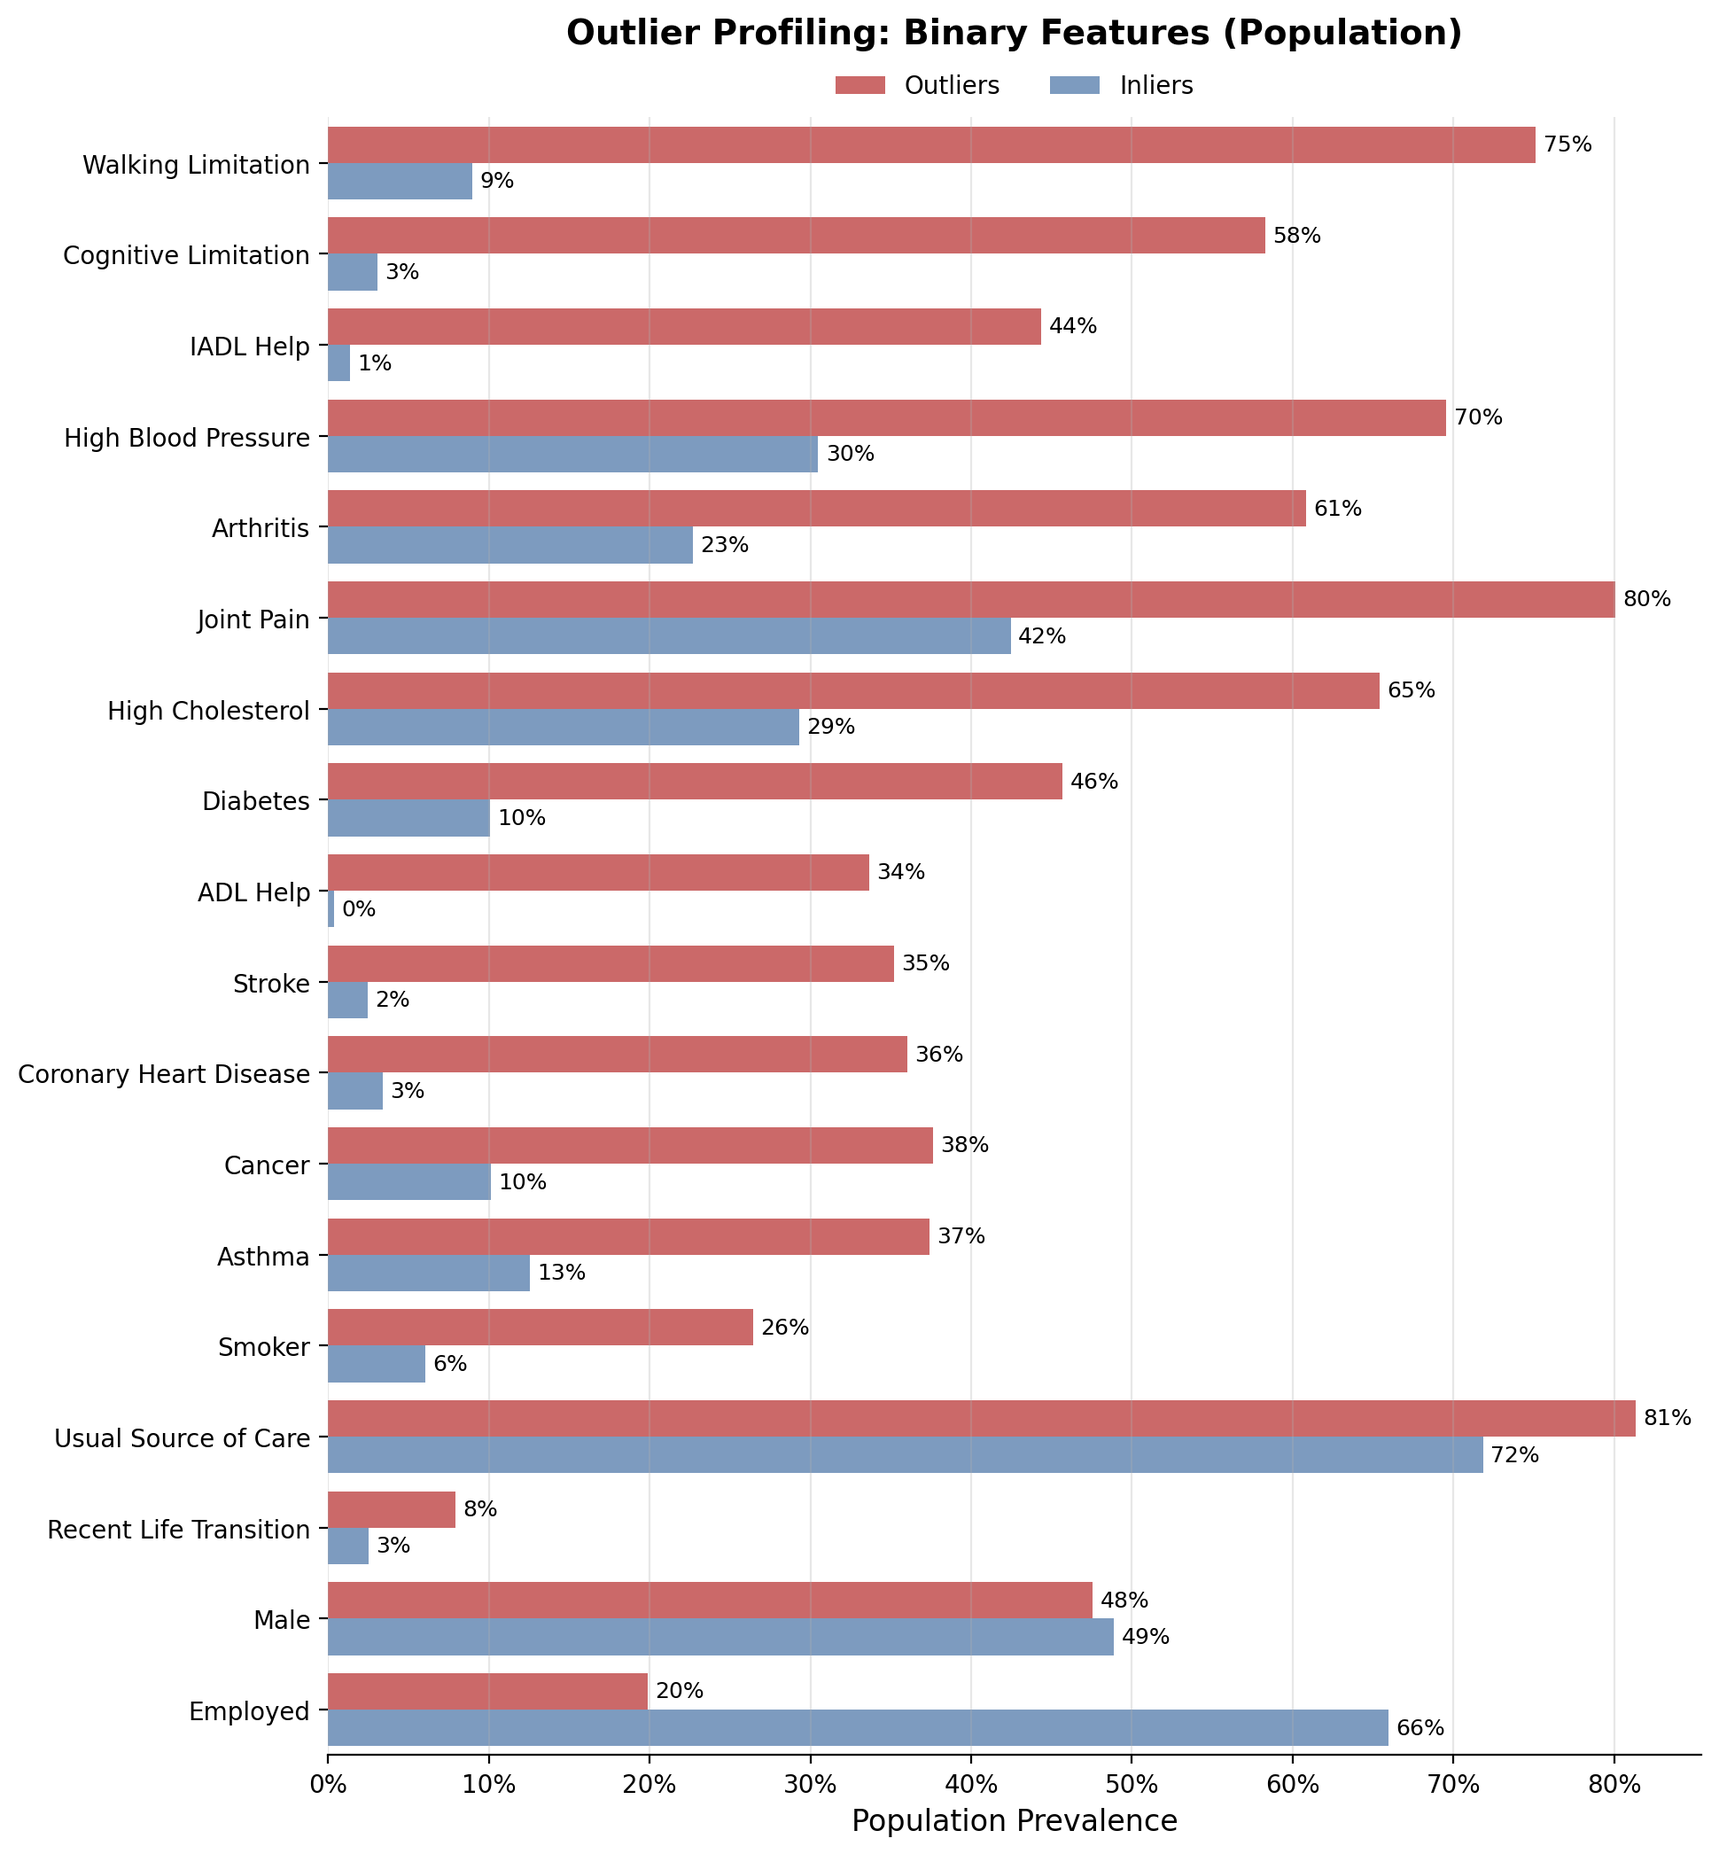
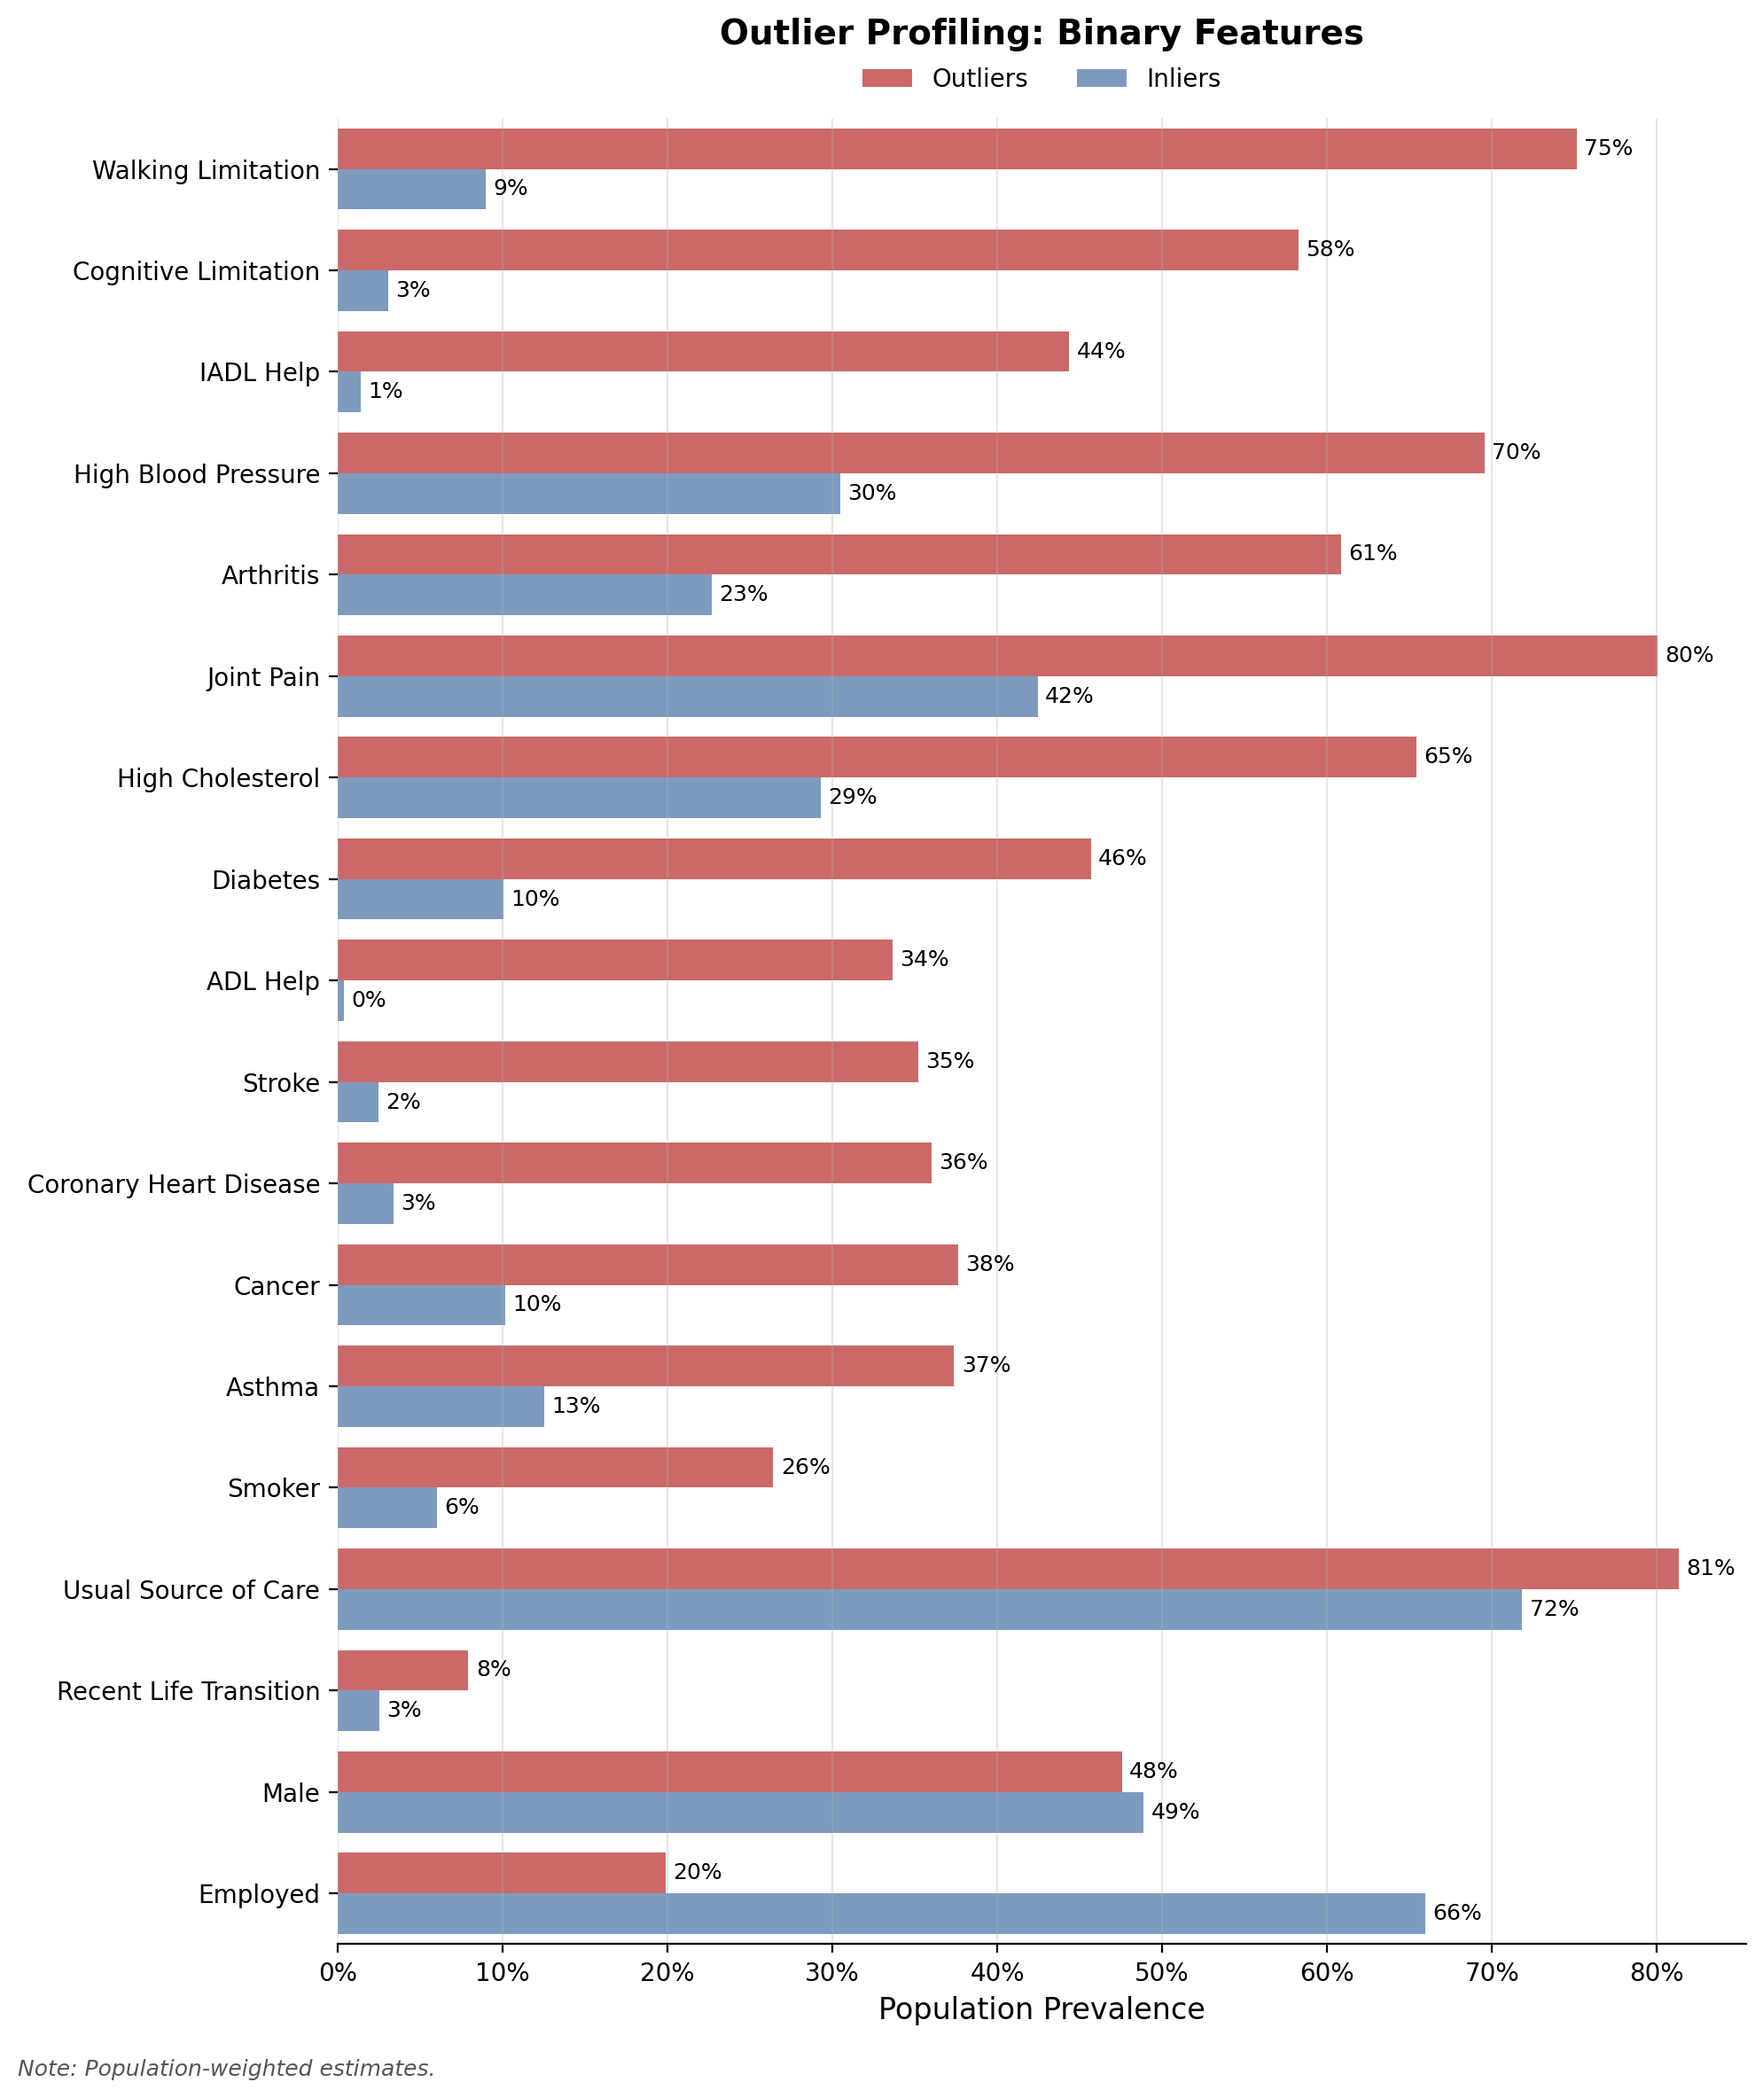
style(data): add footbote for population-weighted estimates in all outlier profiling plots

Changed region(s): [[0.0, 0.0, 0.9897, 0.9943], [0.9278, 0.9321, 0.9588, 0.9632], [0.0619, 0.9632, 0.0928, 0.9943]]

diff --git a/notebooks/medical_cost_prediction.py b/notebooks/medical_cost_prediction.py
@@ -585,6 +585,12 @@ plt.gca().xaxis.set_major_formatter(mtick.StrMethodFormatter("${x:,.0f}"))  # fo
 plt.gca().yaxis.set_major_formatter(mtick.PercentFormatter(1.0))  # format Y as percentages
 plt.legend()
 
+# Adjust layout to make room for the footnote
+plt.tight_layout(rect=[0, 0.02, 1, 1])
+
+# Add footnote
+plt.figtext(0.01, 0.01, "Note: Population-weighted estimates.", ha="left", fontsize=9, style="italic", color="#555555")
+
 plt.show()
 
 # %% [markdown]
@@ -639,6 +645,12 @@ sns.despine()  # removes top & right spines
 plt.gca().xaxis.set_major_formatter(mtick.StrMethodFormatter("${x:,.0f}"))  # format X as dollars with thousand separator
 plt.gca().yaxis.set_major_formatter(mtick.PercentFormatter(1.0))  # format Y as percentages
 plt.legend()
+
+# Adjust layout to make room for the footnote
+plt.tight_layout(rect=[0, 0.02, 1, 1])
+
+# Add footnote
+plt.figtext(0.01, 0.01, "Note: Population-weighted estimates.", ha="left", fontsize=9, style="italic", color="#555555")
 
 plt.show()
 
@@ -764,7 +776,12 @@ plt.xticks(range(0, 101, 10))
 plt.yticks(range(0, 101, 10))
 plt.gca().xaxis.set_major_formatter(mtick.PercentFormatter())
 plt.gca().yaxis.set_major_formatter(mtick.PercentFormatter())
-plt.tight_layout()
+
+# Adjust layout to make room for the footnote
+plt.tight_layout(rect=[0, 0.02, 1, 1])
+
+# Add footnote
+plt.figtext(0.01, 0.01, "Note: Population-weighted estimates.", ha="left", fontsize=9, style="italic", color="#555555")
 
 # Save to file
 # plt.savefig("../figures/eda/lorenz_curve.png", bbox_inches="tight", dpi=200)
@@ -1062,7 +1079,14 @@ def plot_numerical_distributions(df, numerical_features, display_labels=None, we
 
     # Customize histogram matrix
     fig.suptitle(f"{'Population' if weights else 'Sample'} Distributions of Numerical Features", fontsize=16, fontweight="bold", y=1)
-    fig.tight_layout(h_pad=2.0)
+    
+    # Adjust layout to make room for the footnote if weighted
+    if weights:
+        fig.tight_layout(rect=[0, 0.02, 1, 0.98], h_pad=2.0)
+        # Add footnote
+        fig.text(0.01, 0.01, "Note: Population-weighted estimates.", ha="left", fontsize=9, style="italic", color="#555555")
+    else:
+        fig.tight_layout(h_pad=2.0)
 
     # Save to file
     if save_to_file:
@@ -1178,7 +1202,14 @@ def plot_categorical_distributions(df, nominal_features, ordinal_features, displ
     for j in range(i + 1, len(axes_flat)):
         axes_flat[j].axis("off")  # hides unused subplots
     fig.suptitle(f"{'Population' if weights else 'Sample'} Distributions of Categorical Features", fontsize=16, fontweight="bold", y=1)
-    fig.tight_layout(h_pad=2.0, w_pad=4.0)  # Adjusts layout to prevent overlapping subplots
+    
+    # Adjust layout to make room for the footnote if weighted
+    if weights:
+        fig.tight_layout(rect=[0, 0.02, 1, 0.98], h_pad=2.0, w_pad=4.0)
+        # Add footnote
+        fig.text(0.01, 0.01, "Note: Population-weighted estimates.", ha="left", fontsize=9, style="italic", color="#555555")
+    else:
+        fig.tight_layout(h_pad=2.0, w_pad=4.0)
     
     # Save to file
     if save_to_file:
@@ -1275,7 +1306,14 @@ def plot_binary_distributions(df, binary_features, display_labels=None, categori
 
     # Customize bar plot matrix
     fig.suptitle(f"{'Population' if weights else 'Sample'} Distributions of Binary Features", fontsize=16, fontweight="bold", y=1)
-    fig.tight_layout(h_pad=3.0, w_pad=8.0)  # Adjusts layout to prevent overlapping subplots
+    
+    # Adjust layout to make room for the footnote if weighted
+    if weights:
+        fig.tight_layout(rect=[0, 0.02, 1, 0.98], h_pad=3.0, w_pad=8.0)
+        # Add footnote
+        fig.text(0.01, 0.01, "Note: Population-weighted estimates.", ha="left", fontsize=9, style="italic", color="#555555")
+    else:
+        fig.tight_layout(h_pad=3.0, w_pad=8.0)
     
     # Save to file
     if save_to_file:
@@ -2045,7 +2083,13 @@ for j in range(i + 1, len(axes_flat)):
 
 # Customize KDE plot matrix
 fig.suptitle("Outlier Profiling: Numerical Features and Target", fontsize=14, fontweight="bold", y=0.99)
-fig.tight_layout(h_pad=1.5, w_pad=2.0)
+
+# Adjust layout to make room for the footnote
+fig.tight_layout(rect=[0, 0.02, 1, 1], h_pad=1.5, w_pad=2.0)
+
+# Add footnote
+fig.text(0.01, 0.01, "Note: Population-weighted estimates.", ha="left", fontsize=9, style="italic", color="#555555")
+
 plt.show()
 
 # %%
@@ -2072,12 +2116,20 @@ grid = sns.pairplot(
 # Remove legend title and position it at the top center
 sns.move_legend(
     grid, "lower center",
-    bbox_to_anchor=(0.5, 0.99), 
+    bbox_to_anchor=(0.5, 0.97), 
     ncol=2, 
     title=None 
 )
 
-grid.fig.suptitle("Outlier Profiling: Top Numerical Drivers", fontsize=14, fontweight="bold", y=1.05)
+# Add title
+grid.fig.suptitle("Outlier Profiling: Top Numerical Drivers", fontsize=14, fontweight="bold", y=1.03)
+
+# Adjust layout to make room for the footnote
+grid.fig.tight_layout(rect=[0, 0.03, 1, 1])
+
+# Add footnote
+grid.fig.text(0.01, 0.01, "Note: Population-weighted estimates.", ha="left", fontsize=9, style="italic", color="#555555")
+
 plt.show() 
 
 
@@ -2156,7 +2208,7 @@ for g in groups:
                  fontsize=9, fontweight="bold", color=g["color"])
 
 # Customize
-plt.title("Outlier Profiling: Out-of-Pocket Costs Lorenz Curves", fontsize=14, fontweight="bold", pad=20)
+plt.title("Outlier Profiling: Lorenz Curves for Out-of-Pocket Costs", fontsize=14, fontweight="bold", pad=15)
 plt.xlabel("Cumulative % of Population (Sorted from Lowest to Highest Cost)", fontsize=11)
 plt.ylabel("Cumulative % of Total Costs", fontsize=11)
 plt.legend(loc="upper left", fontsize=10)
@@ -2165,7 +2217,13 @@ plt.xticks(range(0, 101, 10))
 plt.yticks(range(0, 101, 10))
 plt.gca().xaxis.set_major_formatter(mtick.PercentFormatter())
 plt.gca().yaxis.set_major_formatter(mtick.PercentFormatter())
-plt.tight_layout()
+
+# Adjust layout to make room for the footnote
+plt.tight_layout(rect=[0, 0.02, 1, 1])
+
+# Add footnote
+plt.figtext(0.01, 0.01, "Note: Population-weighted estimates.", ha="left", fontsize=9, style="italic", color="#555555")
+
 plt.show()
 
 # %%
@@ -2251,13 +2309,20 @@ for container in plt.gca().containers:
     plt.gca().bar_label(container, fmt="{:.0%}", padding=3, fontsize=9)
 
 # Customize
-plt.title("Outlier Profiling: Binary Features (Population)", fontsize=14, fontweight="bold", pad=30)
+plt.title("Outlier Profiling: Binary Features", fontsize=14, fontweight="bold", pad=30)
 plt.xlabel("Population Prevalence", fontsize=12)
 plt.ylabel("")
 plt.gca().xaxis.set_major_formatter(mtick.PercentFormatter(1.0, decimals=0))
 plt.grid(True, axis="x", alpha=0.3)
 plt.legend(loc="upper center", ncol=2, bbox_to_anchor=(0.5, 1.04), frameon=False)
 sns.despine(left=True)
+
+# Adjust layout to make room for the footnote
+plt.tight_layout(rect=[0, 0.02, 1, 0.99])
+
+# Add footnote
+plt.figtext(0.01, 0.01, "Note: Population-weighted estimates.", ha="left", fontsize=9, style="italic", color="#555555")
+
 plt.savefig("../figures/eda/outlier_binary_profile.png", bbox_inches="tight", dpi=200)
 plt.show()
 
@@ -2336,9 +2401,14 @@ for j in range(i + 1, len(axes_flat)):
 # Global Title and Legend
 handles, labels = axes_flat[0].get_legend_handles_labels()
 fig.legend(handles, labels, loc="upper center", ncol=2, bbox_to_anchor=(0.5, 0.98), frameon=False)
-fig.suptitle("Outlier Profiling: Categorical Distributions (Population)", fontsize=16, fontweight="bold", y=1.0)
+fig.suptitle("Outlier Profiling: Categorical Distributions", fontsize=16, fontweight="bold", y=1.0)
 
-plt.tight_layout(h_pad=2.0, w_pad=3.0)
+# Adjust layout
+fig.tight_layout(rect=[0, 0.02, 1, 1], h_pad=2.0, w_pad=3.0)
+
+# Add footnote
+fig.text(0.01, 0.01, "Note: Population-weighted estimates.", ha="left", fontsize=9, style="italic", color="#555555")
+
 plt.savefig("../figures/eda/outlier_categorical_profile.png", bbox_inches="tight", dpi=200)
 plt.show()
 
